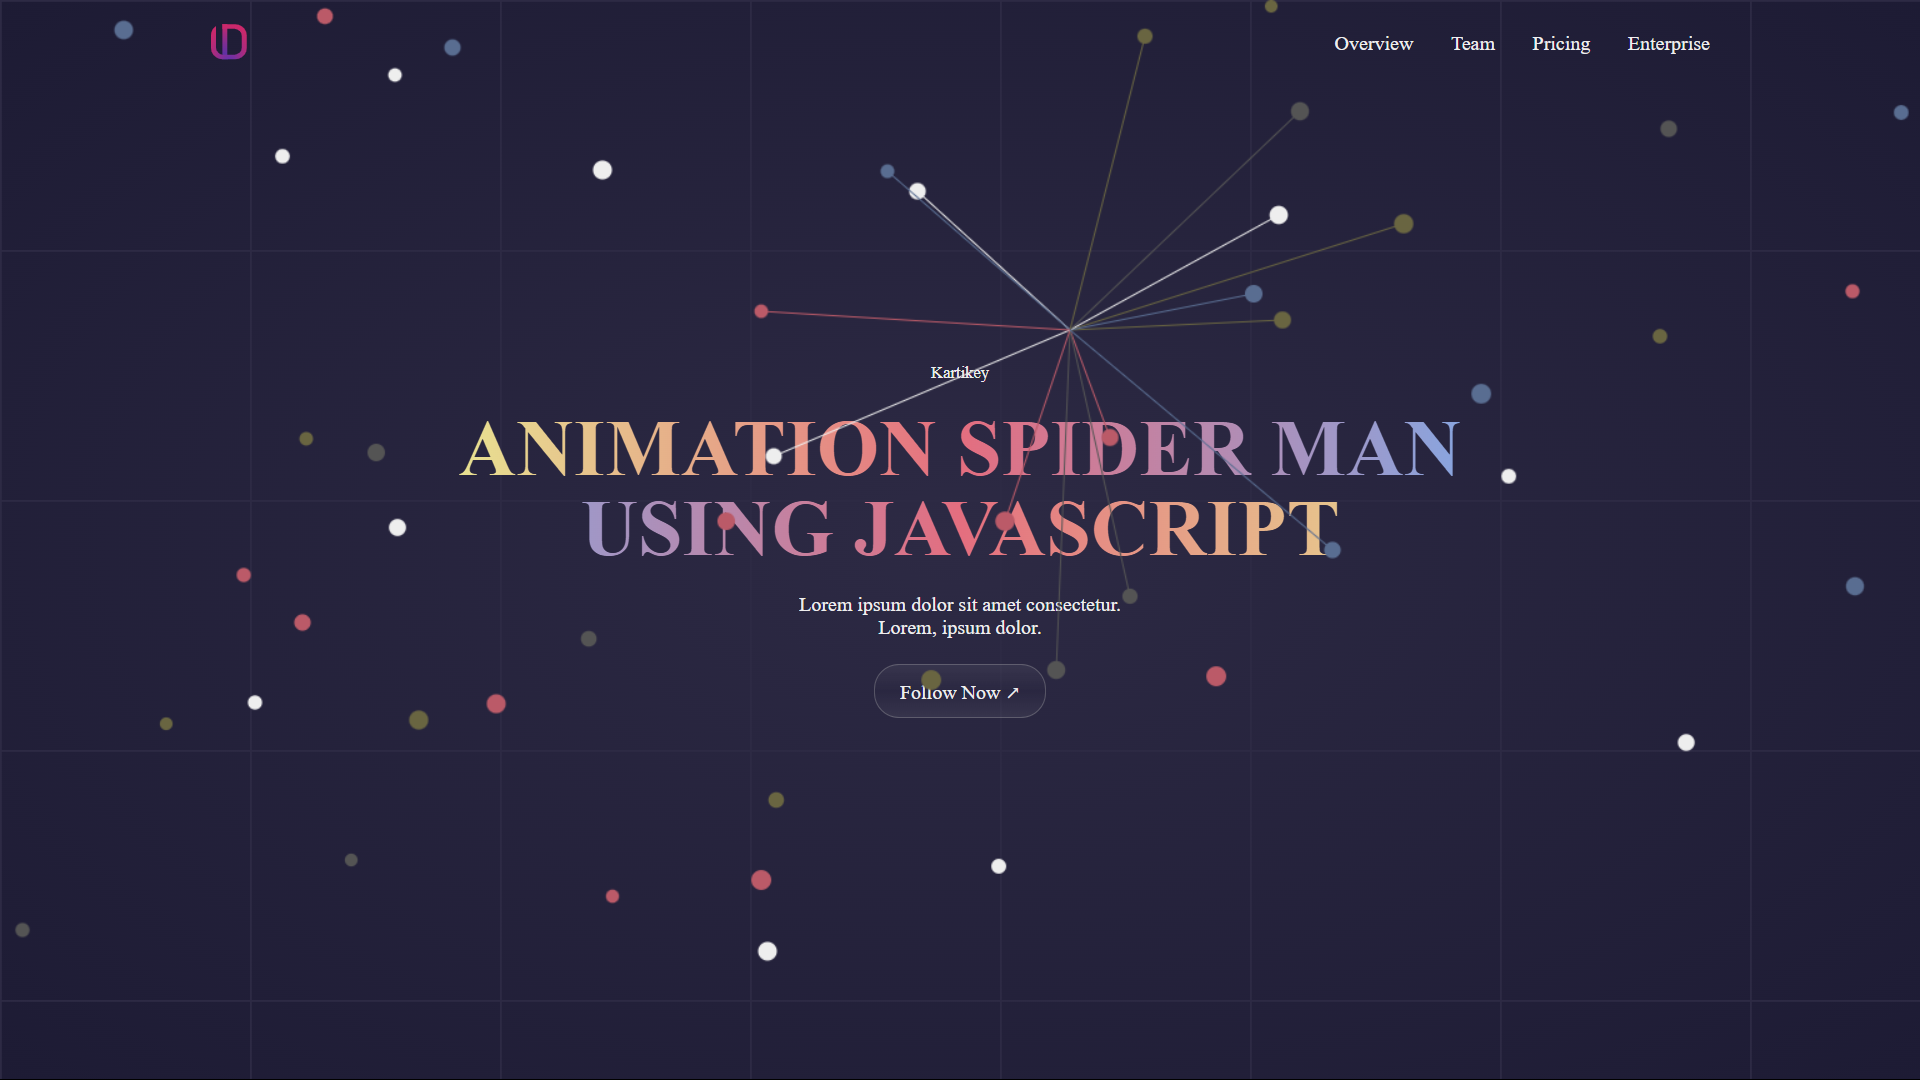
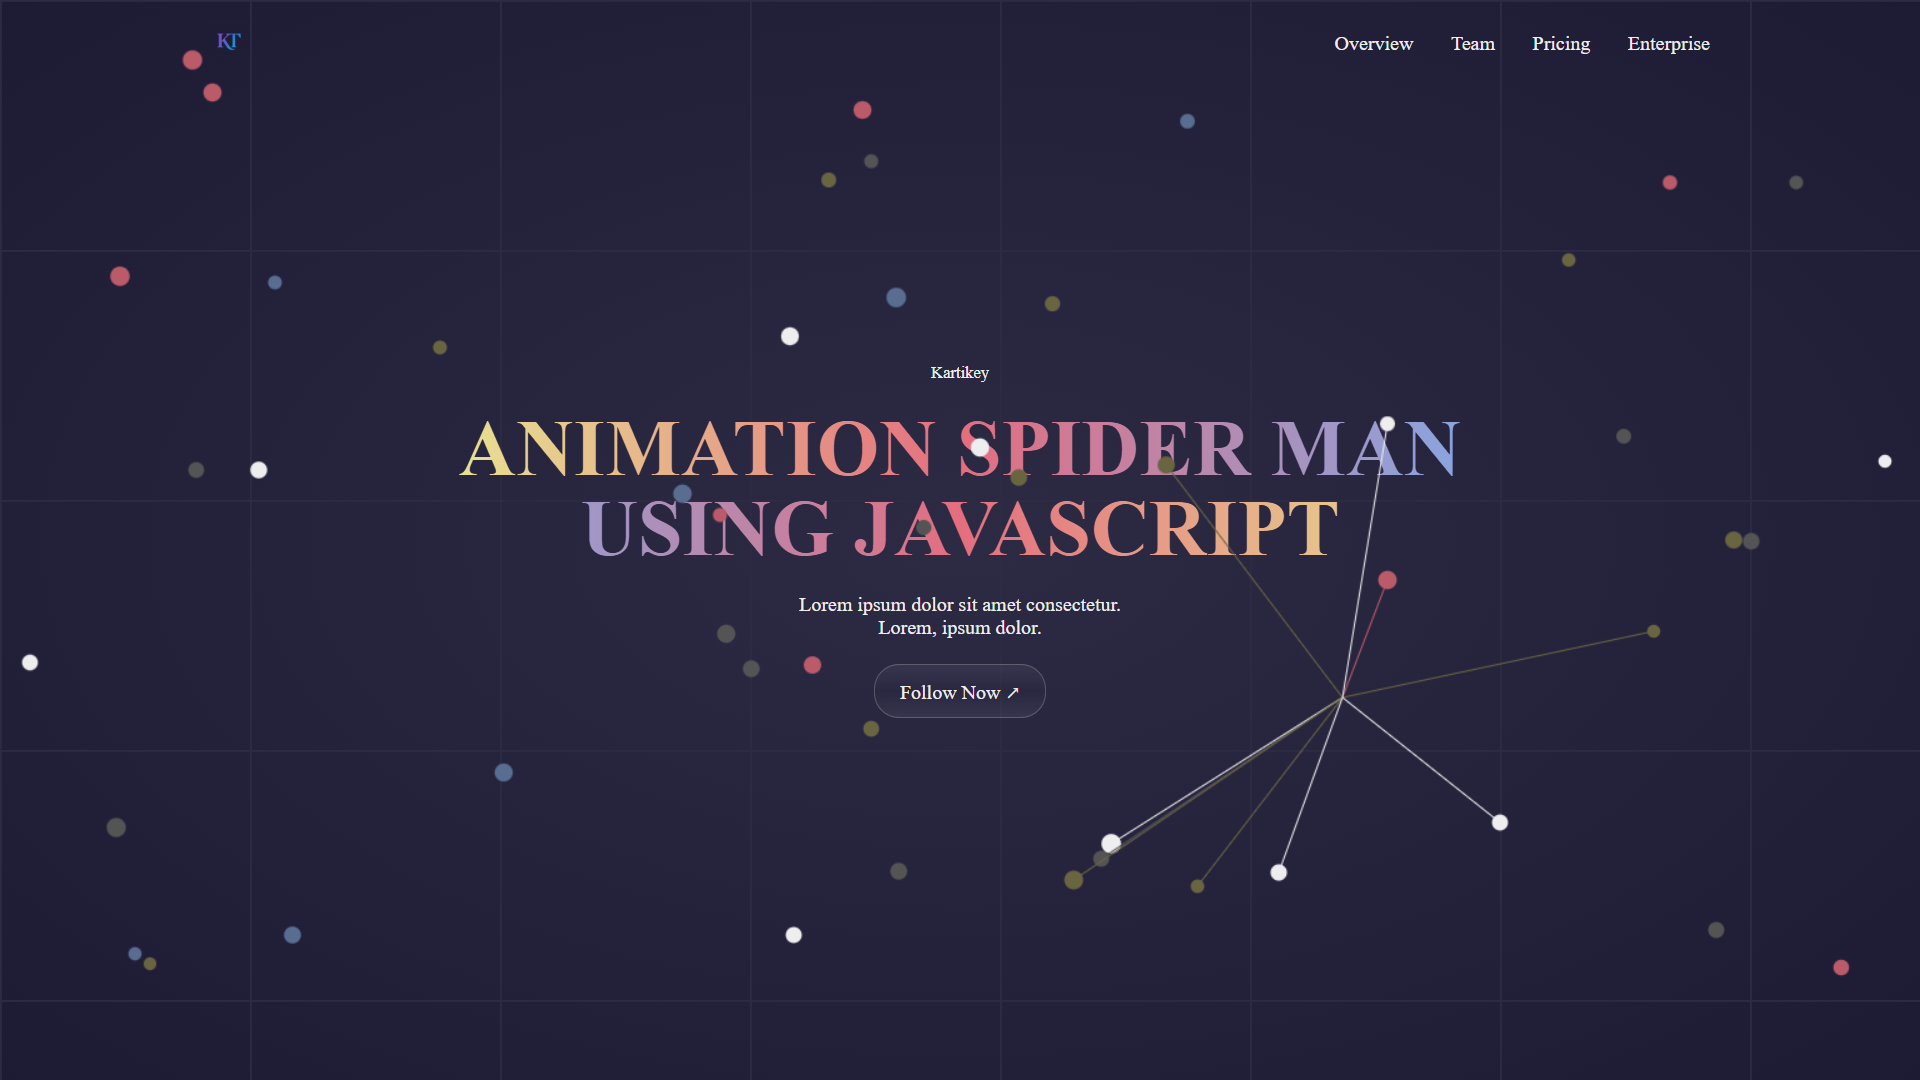
update

diff --git a/canvas/index.html b/canvas/index.html
@@ -9,7 +9,7 @@
 <body>
     <header>
         <figure>
-            <img src="../logo.svg">
+            <img src="./logo.png">
         </figure>
         <nav>
             <ul>
